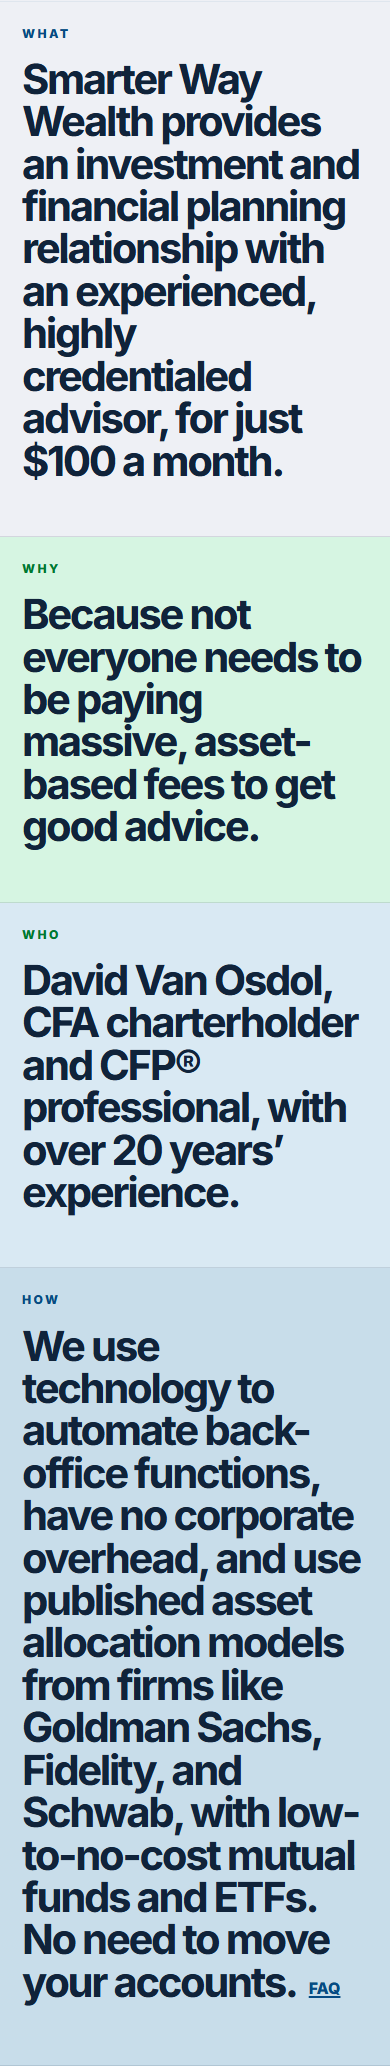
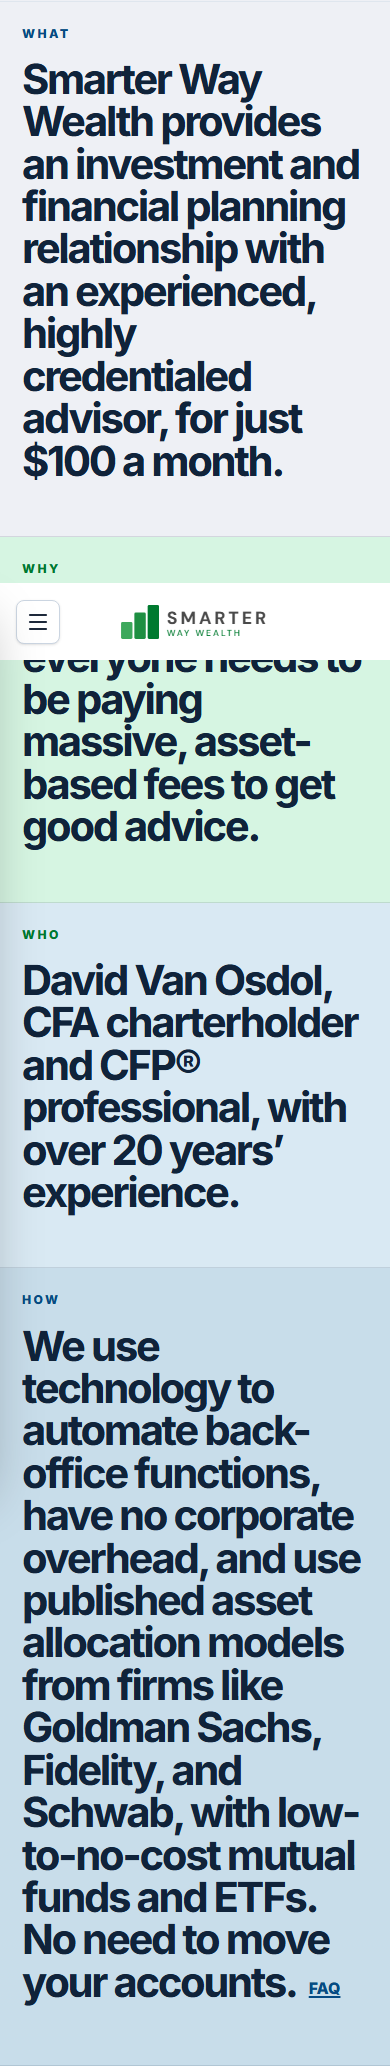
Harden YAPTM tablet navigation

Changed region(s): [[0.0, 0.2788, 1.0, 0.3408]]

diff --git a/src/components/SiteNav.tsx b/src/components/SiteNav.tsx
@@ -1,12 +1,13 @@
 "use client";
 
-import { useState, useEffect, useCallback } from "react";
+import { useState, useEffect, useCallback, useRef } from "react";
 import Image from "next/image";
 import Link from "next/link";
 import { usePathname } from "next/navigation";
 import { ExternalLink, Menu, X } from "lucide-react";
 import { siteNavLinks } from "@/config/siteNavConfig";
 import {
+  DESKTOP_SITE_NAV_MEDIA_QUERY,
   getSiteNavScrollTriggerY,
   isMobileViewport,
   MOBILE_STICKY_BAR_HEIGHT,
@@ -43,6 +44,15 @@ export function SiteNav() {
   const [drawerOpen, setDrawerOpen] = useState(false);
   const [collapsed, setCollapsed] = useState(false);
   const [activeSection, setActiveSection] = useState<string>("calculator");
+  const menuButtonRef = useRef<HTMLButtonElement>(null);
+
+  const toggleDrawer = useCallback(() => setDrawerOpen((p) => !p), []);
+  const closeDrawer = useCallback(() => {
+    if (document.activeElement?.closest('nav[aria-label="Mobile navigation"]')) {
+      menuButtonRef.current?.focus();
+    }
+    setDrawerOpen(false);
+  }, []);
 
   /* Track scroll to toggle collapsed state */
   useEffect(() => {
@@ -107,6 +117,35 @@ export function SiteNav() {
     return () => { document.body.style.overflow = ""; };
   }, [drawerOpen]);
 
+  /* Keep the drawer state aligned with the same 1280px breakpoint that swaps
+     the mobile and desktop header layouts. */
+  useEffect(() => {
+    const desktopQuery = window.matchMedia(DESKTOP_SITE_NAV_MEDIA_QUERY);
+    const closeAtDesktop = (event: MediaQueryListEvent) => {
+      if (!event.matches) return;
+      if (document.activeElement?.closest('nav[aria-label="Mobile navigation"]')) {
+        (document.activeElement as HTMLElement).blur();
+      }
+      setDrawerOpen(false);
+    };
+
+    desktopQuery.addEventListener("change", closeAtDesktop);
+    return () => desktopQuery.removeEventListener("change", closeAtDesktop);
+  }, []);
+
+  useEffect(() => {
+    if (!drawerOpen) return;
+
+    const closeOnEscape = (event: KeyboardEvent) => {
+      if (event.key !== "Escape") return;
+      event.preventDefault();
+      closeDrawer();
+    };
+
+    document.addEventListener("keydown", closeOnEscape);
+    return () => document.removeEventListener("keydown", closeOnEscape);
+  }, [closeDrawer, drawerOpen]);
+
   /* On the homepage, make nav state follow the section currently in view. */
   useEffect(() => {
     if (pathname !== "/") {
@@ -144,9 +183,6 @@ export function SiteNav() {
       window.removeEventListener("hashchange", onScroll);
     };
   }, [collapsed, pathname]);
-
-  const toggleDrawer = useCallback(() => setDrawerOpen((p) => !p), []);
-  const closeDrawer = useCallback(() => setDrawerOpen(false), []);
 
   const isLinkActive = useCallback(
     (link: (typeof siteNavLinks)[number]) => {
@@ -211,14 +247,15 @@ export function SiteNav() {
 
         <div className="site-nav mx-auto max-w-[1200px] px-4 transition-all duration-500 ease-out sm:px-6">
           {/* ── Mobile Layout ── */}
-          <div className={`flex items-center justify-between md:hidden transition-all duration-500 ease-out transform-gpu ${
+          <div className={`flex items-center justify-between xl:hidden transition-all duration-500 ease-out transform-gpu ${
             collapsed ? "h-[58px]" : "h-[77px]"
           }`}>
             <button
+              ref={menuButtonRef}
               onClick={toggleDrawer}
               aria-label={drawerOpen ? "Close menu" : "Open menu"}
               aria-expanded={drawerOpen}
-              className="relative z-10 flex h-10 w-10 items-center justify-center rounded-lg border border-neutral-300 bg-white text-neutral-800 shadow-sm transition-colors duration-300 hover:bg-neutral-100 active:bg-neutral-200"
+              className="relative z-10 flex h-11 w-11 items-center justify-center rounded-lg border border-neutral-300 bg-white text-neutral-800 shadow-sm transition-colors duration-300 hover:bg-neutral-100 active:bg-neutral-200"
             >
               {drawerOpen ? <X className="h-5 w-5" strokeWidth={2.2} /> : <Menu className="h-6 w-6" strokeWidth={2.2} />}
             </button>
@@ -226,7 +263,7 @@ export function SiteNav() {
             {/* Mobile logo — tiered implementation */}
             <Link
               href={"/" as any}
-              className="absolute left-1/2 -translate-x-1/2 flex items-center transform-gpu"
+              className="absolute left-1/2 flex min-h-11 -translate-x-1/2 items-center transform-gpu"
               aria-label="Smarter Way Wealth home"
             >
               <Logo
@@ -237,17 +274,17 @@ export function SiteNav() {
             </Link>
 
             {/* Right slot — reserved for future CTA */}
-            <div className="w-10" aria-hidden="true" />
+            <div className="w-11" aria-hidden="true" />
           </div>
 
           {/* ── Desktop Layout ── */}
-          <div className={`hidden items-center justify-between md:flex transition-all duration-500 ease-out transform-gpu ${
+          <div className={`hidden items-center justify-between xl:flex transition-all duration-500 ease-out transform-gpu ${
             collapsed ? "h-[52px]" : "h-[84px]"
           }`}>
             {/* Desktop logo — tiered implementation */}
             <Link
               href={"/" as any}
-              className="shrink-0 rounded-md transition-opacity duration-300 hover:opacity-90"
+              className="inline-flex min-h-11 shrink-0 items-center rounded-md transition-opacity duration-300 hover:opacity-90"
               aria-label="Smarter Way Wealth home"
             >
               <Logo 
@@ -315,7 +352,7 @@ export function SiteNav() {
       {/* ── Mobile Drawer (always in DOM, toggled via CSS) ── */}
       {/* Backdrop */}
       <div
-        className={`fixed inset-0 z-[60] bg-black/40 transition-opacity duration-300 md:hidden ${
+        className={`fixed inset-0 z-[60] bg-black/40 transition-opacity duration-300 xl:hidden ${
           drawerOpen ? "opacity-100" : "pointer-events-none opacity-0"
         }`}
         onClick={closeDrawer}
@@ -324,11 +361,12 @@ export function SiteNav() {
 
       {/* Panel */}
       <nav
-        className={`site-nav fixed inset-y-0 left-0 z-[70] flex w-[280px] flex-col bg-white shadow-2xl transition-transform duration-300 ease-out md:hidden ${
+        className={`site-nav fixed inset-y-0 left-0 z-[70] flex w-[280px] flex-col bg-white shadow-2xl transition-transform duration-300 ease-out xl:hidden ${
           drawerOpen ? "translate-x-0" : "-translate-x-full"
         }`}
         aria-label="Mobile navigation"
         aria-hidden={!drawerOpen}
+        inert={!drawerOpen}
       >
         {/* Drawer Header */}
         <div className="flex h-[77px] items-center justify-between px-4">
@@ -336,6 +374,7 @@ export function SiteNav() {
             href={"/" as any}
             aria-label="Smarter Way Wealth home"
             onClick={closeDrawer}
+            className="inline-flex min-h-11 items-center"
           >
             <Logo 
               heightClass="h-10" 
@@ -345,7 +384,7 @@ export function SiteNav() {
           <button
             onClick={closeDrawer}
             aria-label="Close menu"
-            className="flex h-10 w-10 items-center justify-center rounded-lg text-neutral-600 transition-colors hover:bg-neutral-100"
+            className="flex h-11 w-11 items-center justify-center rounded-lg text-neutral-600 transition-colors hover:bg-neutral-100"
           >
             <X className="h-5 w-5" strokeWidth={2} />
           </button>

diff --git a/src/components/ProgressiveStickyBar.tsx b/src/components/ProgressiveStickyBar.tsx
@@ -145,7 +145,7 @@ export function ProgressiveStickyBar() {
     <>
       {/* Desktop: tucks under collapsed SiteNav (52px). */}
       <div
-        className={`fixed inset-x-0 top-[52px] z-40 hidden h-10 transition-opacity ease-out md:block ${
+        className={`fixed inset-x-0 top-[52px] z-40 hidden h-10 transition-opacity ease-out xl:block ${
           desktopVisible ? "opacity-100" : "pointer-events-none opacity-0"
         }`}
         style={{ transitionDuration: `${STICKY_BAR_OPACITY_MS}ms` }}
@@ -155,7 +155,7 @@ export function ProgressiveStickyBar() {
       </div>
       {/* Mobile: tucks under collapsed SiteNav (58px). Savings + section nav. */}
       <div
-        className={`fixed inset-x-0 top-[58px] z-40 h-[72px] transition-opacity ease-out md:hidden ${
+        className={`fixed inset-x-0 top-[58px] z-40 h-[72px] transition-opacity ease-out xl:hidden ${
           mobileVisible ? "opacity-100" : "pointer-events-none opacity-0"
         }`}
         style={{ transitionDuration: `${STICKY_BAR_OPACITY_MS}ms` }}

diff --git a/src/config/stickyNavConfig.ts b/src/config/stickyNavConfig.ts
@@ -9,6 +9,8 @@ export const MOBILE_EXPANDED_SITE_NAV_HEIGHT = 77;
 export const STICKY_BAR_HEIGHT = 40;
 export const MOBILE_STICKY_BAR_HEIGHT = 72;
 export const SCROLL_SPY_BUFFER = 18;
+export const DESKTOP_SITE_NAV_BREAKPOINT_PX = 1280;
+export const DESKTOP_SITE_NAV_MEDIA_QUERY = `(min-width: ${DESKTOP_SITE_NAV_BREAKPOINT_PX}px)`;
 
 export const STICKY_BAR_OPACITY_MS = 300;
 
@@ -21,7 +23,7 @@ export const STICKY_SECTION_SPRING = {
 
 export function isMobileViewport(): boolean {
   if (typeof window === "undefined") return false;
-  return window.matchMedia("(max-width: 767px)").matches;
+  return !window.matchMedia(DESKTOP_SITE_NAV_MEDIA_QUERY).matches;
 }
 
 export function getCollapsedSiteNavHeight(isMobile = isMobileViewport()): number {

diff --git a/src/components/WhatWhyWhoHow.module.css b/src/components/WhatWhyWhoHow.module.css
@@ -43,7 +43,7 @@
 .label {
   margin: 0;
   color: #064b84;
-  font-family: Georgia, "Times New Roman", serif;
+  font-family: inherit;
   font-size: clamp(3.15rem, 6.2vw, 6.8rem);
   font-weight: 400;
   letter-spacing: -0.06em;
